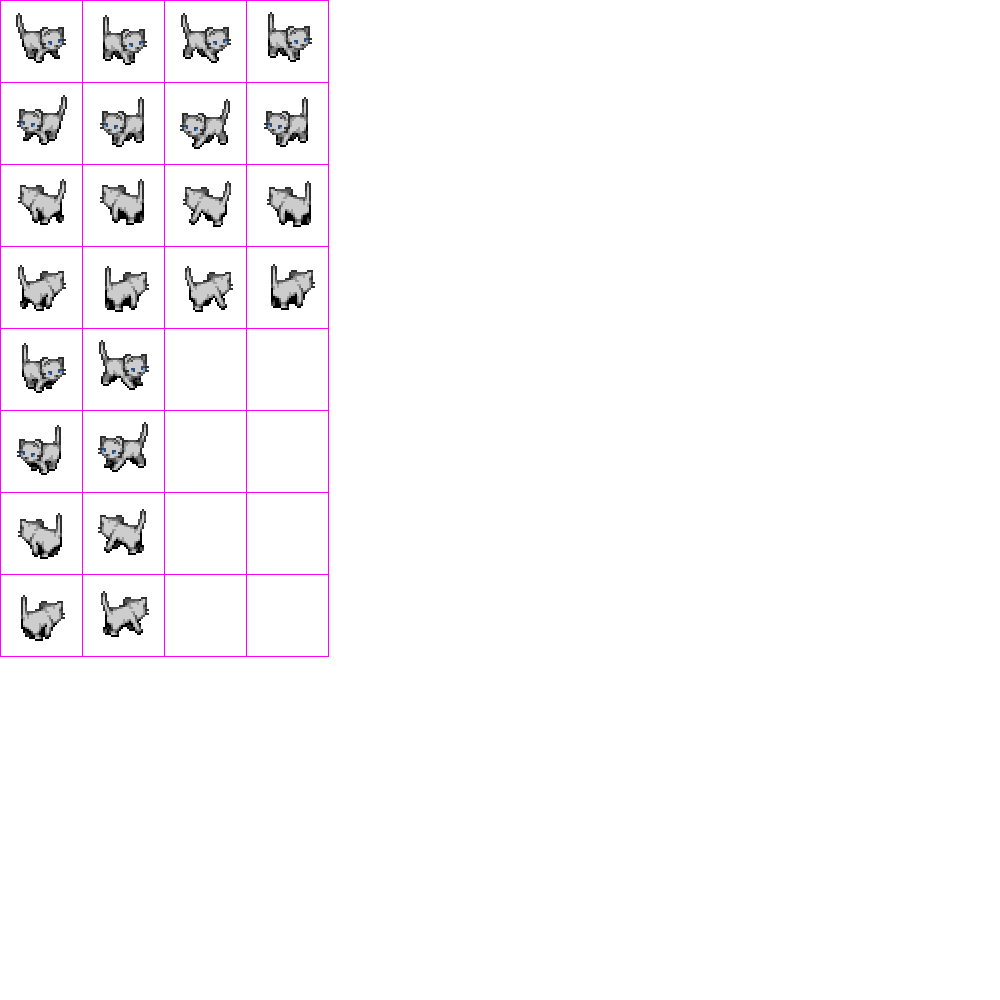
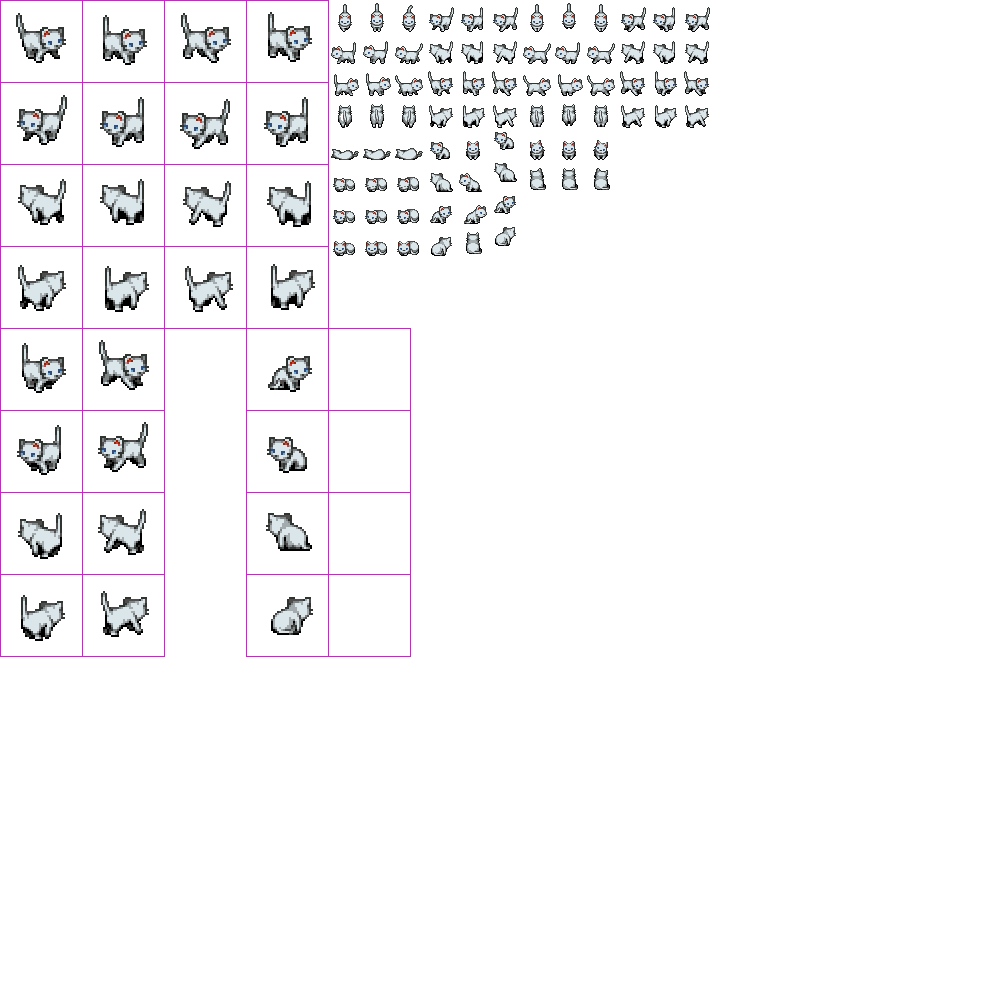
Ajout de l'animation pour Forward

diff --git a/src/Entities/Character.java b/src/Entities/Character.java
@@ -20,36 +20,30 @@ import Prog.Prog;
 public class Character extends Entities
 {	
 	private int orientation; //0: haut, 1: droite, 2: bas, 3: gauche, voir Orientation.java
-	private Color couleur;
+	private Color couleur = Color.DEFAUT;;
 
-	private Chest coffre;
+	private Chest coffre = null;
 	private Procedure main;
-	private Action actionCourante;
+	private Action actionCourante = null;
 	Stack<ListIterator<Prog>> pile = new Stack<ListIterator<Prog>>();
 
 	public Character(Coordonnees pos, int ori) 
 	{
 		coord = pos;
-
 		orientation = ori;
-		couleur = Color.DEFAUT;
-		coffre = null;
-		actionCourante = null;
+
 		sprite.setTexture(Ressources.TEXTURE.getTexture(TEXTURE.PERSO));
 		setTextureOrientation();
 	}
+	public void setTextureOrientation() {sprite.setTextureRect(new IntRect(247, 329+82*orientation, 81, 81));}
 
 	public Coordonnees getCoord() {return coord;}
 	public void setCoord(Coordonnees pos) {coord = pos;}
 	public int getOrientation() {return orientation;}
-	public void setOrientation(int ori) 
-	{
-		orientation = ori;
-		setTextureOrientation();
-	}
+	public void setOrientation(int ori) {orientation = ori;}
 	public void setColor(Color c) {couleur = c;}
 	public Color getColor() {return couleur;}
-	public void setTextureOrientation() {sprite.setTextureRect(new IntRect(1+82*orientation, 1, 81, 81));}
+	
 	public Chest getChest() {return coffre;}
 	public void setChest(Chest c) {coffre = c;}
 	public void setActionCourante(Action a) {actionCourante = a;}
@@ -77,11 +71,13 @@ public class Character extends Entities
 				{
 					actionCourante = null;
 					Controler.CONTROLER.manage(this);
-					return true;
 				}
 			}
 			else 
 				Controler.CONTROLER.manage(this);
+			
+			if (actionCourante == null)
+				setTextureOrientation();
 		}
 
 		return true;
@@ -90,17 +86,12 @@ public class Character extends Entities
 	public void next()
 	{
 		Action a=null;
-		try {
-			 a = Interpreter.INTERPRETER.eval(this);
-		}catch(StackOverflowError e) 
-		{
-			throw new StackOverflowError();
-		}
-		if(a!=null)
-		{
+		try {a = Interpreter.INTERPRETER.eval(this);}
+		catch(StackOverflowError e) 
+		{throw new StackOverflowError();}
+		
+		if (a!=null)
 			use_Action(a);
-
-		}
 	}
 
 	/**

diff --git a/src/Prog/NormalActions/Forward.java b/src/Prog/NormalActions/Forward.java
@@ -1,4 +1,6 @@
 package Prog.NormalActions;
+import org.jsfml.graphics.IntRect;
+
 import Entities.Character;
 import Game.World;
 import Prog.Action;
@@ -32,7 +34,6 @@ public class Forward extends Action
 			switch (p.getOrientation())
 			{
 				case Orientation.NORTH:
-					System.out.println("lol");
 					check = new Coordonnees(coord.getX(), coord.getY()+1, coord.getZ());
 					delta = new Coordonnees(0, 1.f/last_frame_phase1, 0);
 					break;
@@ -54,8 +55,10 @@ public class Forward extends Action
 			if (World.WORLD.isValidPosition(check))
 				futur_coord = check;
 			else
+			{
+				futur_coord = p.getCoord();
 				delta = new Coordonnees(0, 0, 0);
-			
+			}
 			phase = PHASE.P1;
 		}
 		else if (frame == last_frame_phase1)
@@ -63,11 +66,14 @@ public class Forward extends Action
 			phase = PHASE.CHUTE;
 			delta = new Coordonnees(0, 0, -0.2f);
 		}
-		//TODO other animation
+		
 		frame ++;
 		
 		if (phase == PHASE.P1)
+		{
 			p.getCoord().increment(delta);
+			animation(p);
+		}
 		else if (phase == PHASE.CHUTE)
 		{
 			Coordonnees check = new Coordonnees(p.getCoord());
@@ -75,6 +81,7 @@ public class Forward extends Action
 			
 			if (World.WORLD.isValidPosition(check))
 			{
+				p.setTextureRect(new IntRect(83, 329+p.getOrientation()*82, 81, 81));
 				p.getCoord().increment(delta);
 				futur_coord = new Coordonnees((int)(p.getCoord().getX()), (int)(p.getCoord().getY()), (int)(p.getCoord().getZ()));
 			}
@@ -86,9 +93,20 @@ public class Forward extends Action
 			}
 		}
 		
-		//System.out.println(p.getCoord());
 		p.setPosSprite(World.WORLD.placeMe(p.getCoord()));
 		
 		return false;
+	}
+	
+	private int anim = 0;
+	private void animation(Character p)
+	{
+		if (anim % 5 == 0)
+			p.setTextureRect(new IntRect(1+anim/5*82, 1+p.getOrientation()*82, 81, 81));
+		
+		anim++;
+		
+		if (anim == 20)
+			anim = 0;
 	}
 }

diff --git a/src/Game/Controler.java b/src/Game/Controler.java
@@ -20,7 +20,7 @@ public class Controler
 	}
 	
 	List<PersonnageTravaille> lPT = new ArrayList<PersonnageTravaille>();
-	public static Controler CONTROLER = new Controler();
+	public static Controler CONTROLER = null;
 	
 	public void addCharacter(Character p)
 	{
@@ -42,10 +42,11 @@ public class Controler
 			if (pt.travail == true)
 				return;
 		
-		for (PersonnageTravaille pt : lPT) {
-			try {
-				pt.p.next();
-			}catch (StackOverflowError e) {
+		for (PersonnageTravaille pt : lPT) 
+		{
+			try {pt.p.next();}
+			catch (StackOverflowError e) 
+			{
 				//TODO Affichier message à l'utilisateur : erreur, boucle infinie
 			}
 			pt.travail = true;

diff --git a/src/Levels/Reader.java b/src/Levels/Reader.java
@@ -18,6 +18,8 @@ import org.jdom2.input.SAXBuilder;
 
 import Entities.Block;
 import Entities.Blocks.TeleporterBlock;
+import Game.Controler;
+import Game.Interpreter;
 import Game.World;
 import Prog.Action;
 import Prog.Color;
@@ -190,9 +192,13 @@ public class Reader
 		Set<Block> set = new HashSet<Block>();
 		set.addAll(lb);
 		lb = new ArrayList<Block>(set);
-		Menu.Mymenu = null;
+		
 		World.WORLD = new World(name, lb, bng, dir, la);
 		Gui.GUI = new Gui(nbA, nbP);
+		Interpreter.INTERPRETER = new Interpreter();
+		Controler.CONTROLER = new Controler(); 
+		
+		Menu.Mymenu = null;
 	}
 	
 }

diff --git a/src/UI/Gui.java b/src/UI/Gui.java
@@ -7,7 +7,9 @@ import org.jsfml.graphics.IntRect;
 import org.jsfml.graphics.Sprite;
 import org.jsfml.system.Vector2f;
 
+import Game.Controler;
 import Game.Input;
+import Game.Interpreter;
 import Game.Input.BUTTON;
 import Game.Ressources;
 import Game.Ressources.TEXTURE;
@@ -165,6 +167,9 @@ public class Gui
 			{
 				World.WORLD = null;
 				Gui.GUI = null;
+				Interpreter.INTERPRETER = null;
+				Controler.CONTROLER = null;
+				
 				Menu.change_menu(Menu.MENU.LEVEL);
 				
 				return;

diff --git a/src/Game/Interpreter.java b/src/Game/Interpreter.java
@@ -16,7 +16,7 @@ import Prog.NormalActions.For;
 
 public class Interpreter 
 {
-	public static Interpreter INTERPRETER = new Interpreter();
+	public static Interpreter INTERPRETER = null;
 
 	public Action eval(Character p)
 	{
